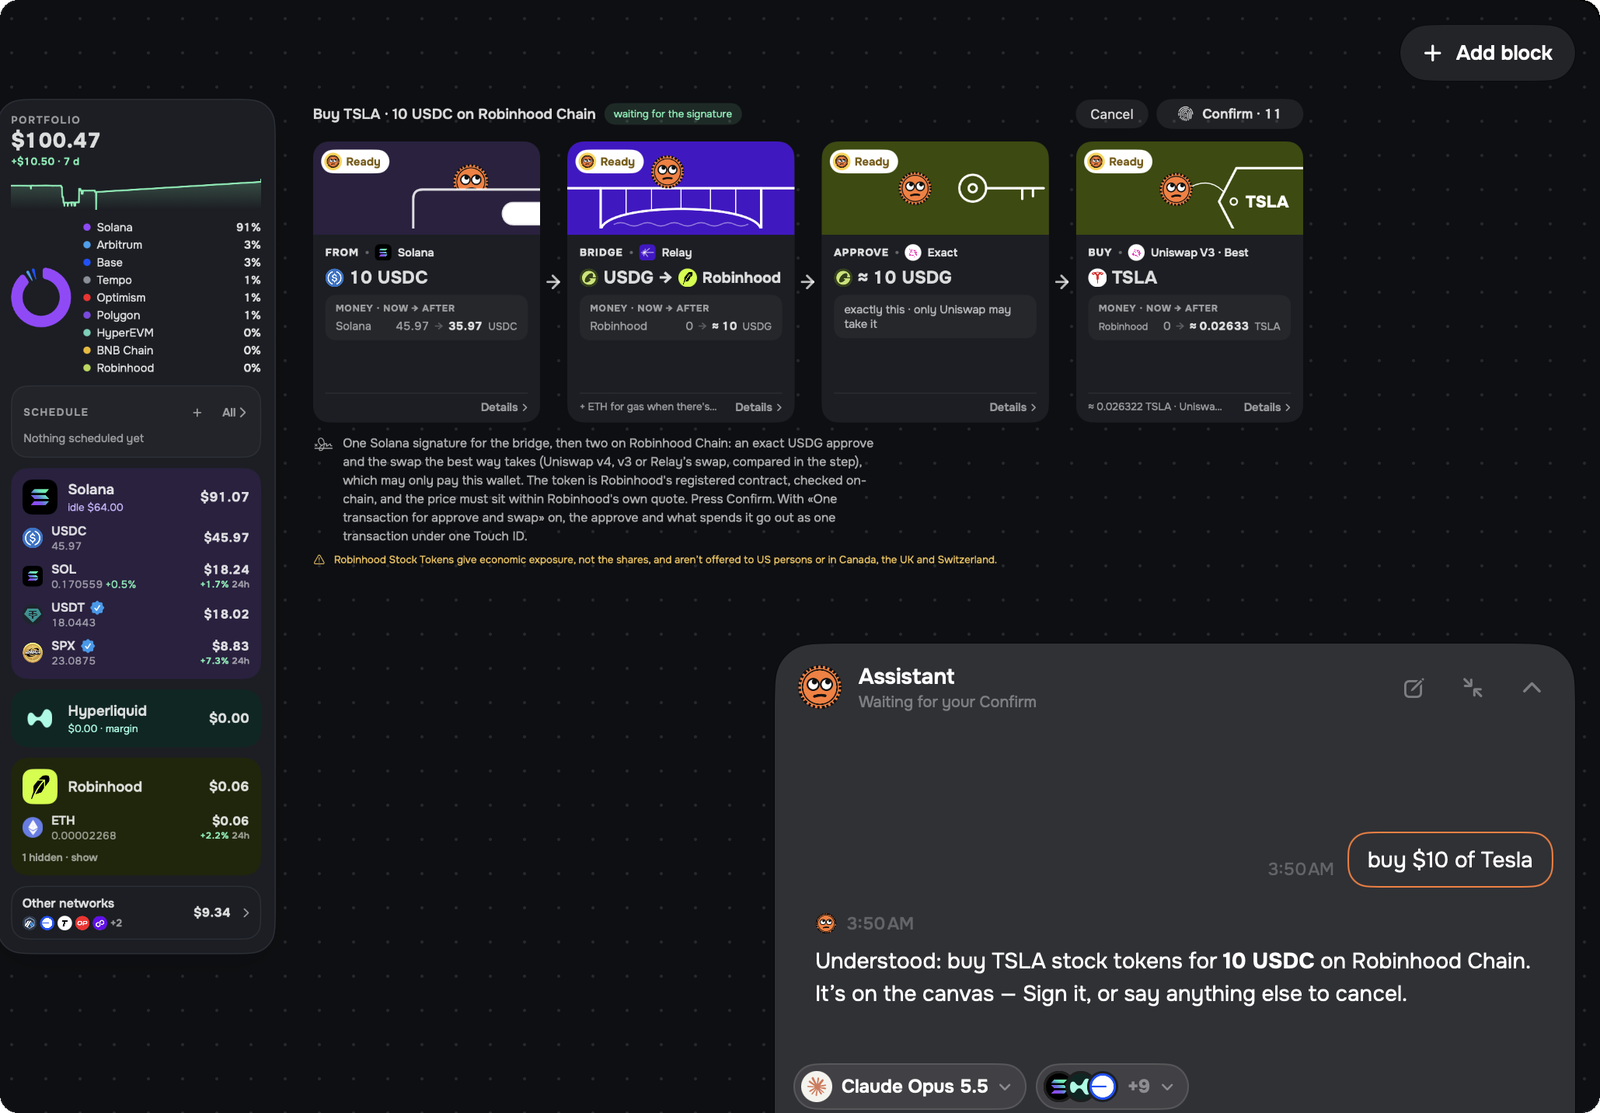
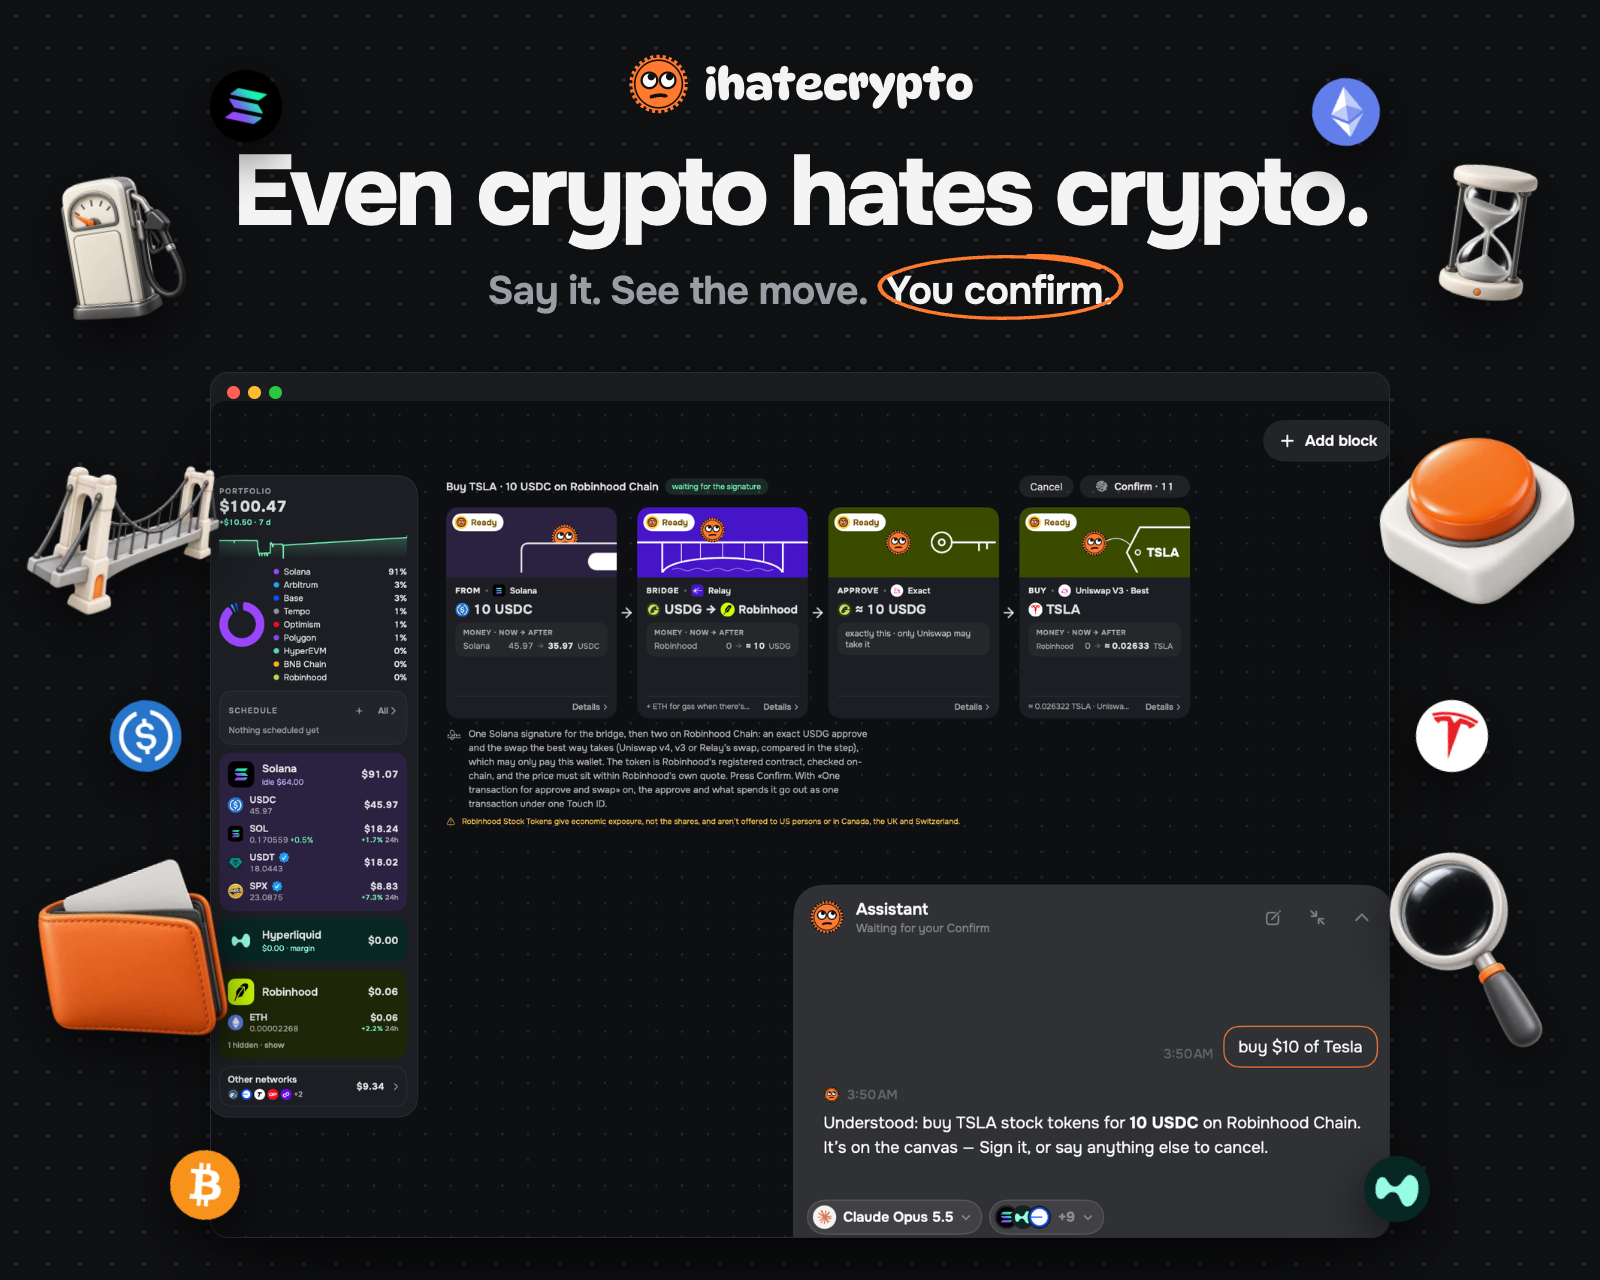
README: the top picture in the manner of the site's link previews (the slogan, «Say it. See the move. You confirm.» with the last part circled, the app window and the manifesto's 3D things and coins around it), light and dark, as the owner asked («сделай вот тут более красивую картинку как для соц с
images/hero.html draws it from the canvas screenshots, now app-light.png and app-dark.png.

diff --git a/images/hero.html b/images/hero.html
@@ -1,0 +1,53 @@
+<!doctype html>
+<!-- The README's top picture in the manner of the site's link previews: the slogan, the app window (app-<theme>.png, a
+     screenshot of the canvas) and the manifesto's 3D things and coins around it. hero-light.png and hero-dark.png, 1600x1280:
+       python3 -m http.server 8765   (from the repo root)
+       screenshot http://127.0.0.1:8765/images/hero.html and ?theme=dark at 1600x1280 -->
+<html><head><meta charset="utf-8">
+<style>
+  @font-face { font-family: 'DynaPuff'; font-weight: 600; src: url(../App/Tools/site/fonts/dynapuff-latin.woff2) format('woff2'); }
+  @font-face { font-family: 'Onest'; font-weight: 400 800; src: url(../App/Tools/site/fonts/onest-latin.woff2) format('woff2'); }
+  :root { --bg: #FAFAFB; --dot: #D9DCE2; --ink: #111111; --line: #E1E4EC; --bar: #F4F5F7; --muted: #5F636B; --shadow: rgba(17,17,17,.20); }
+  .dark { --bg: #0F1012; --dot: #26282D; --ink: #F4F4F5; --line: #2A2C31; --bar: #1B1C1F; --muted: #9A9DA4; --shadow: rgba(0,0,0,.6); }
+  * { box-sizing: border-box; margin: 0; }
+  body { position: relative; width: 1600px; height: 1280px; overflow: hidden; color: var(--ink); font-family: Onest, sans-serif; -webkit-font-smoothing: antialiased;
+         background: var(--bg) radial-gradient(var(--dot) 1.8px, transparent 2.2px) 0 0 / 32px 32px; }
+  .lock { position: absolute; left: 50%; top: 52px; translate: -50% 0; display: flex; align-items: center; gap: 14px; }
+  .lock svg { width: 64px; height: 64px; }
+  .lock b { font: 600 44px/1 DynaPuff, Onest, sans-serif; letter-spacing: -.3px; }
+  h1 { position: absolute; left: 0; right: 0; top: 142px; text-align: center; font: 800 100px/1 Onest, sans-serif; letter-spacing: -.045em; }
+  p { position: absolute; left: 0; right: 0; top: 268px; text-align: center; font: 700 40px/1.15 Onest, sans-serif; letter-spacing: -.025em; color: var(--muted); }
+  .ring { position: relative; margin-left: .2em; white-space: nowrap; color: var(--ink); }
+  .ring svg { position: absolute; left: -.45em; top: -.42em; width: calc(100% + .9em); height: 1.9em; overflow: visible; }
+  .ring path { fill: none; stroke: #FF7A2F; stroke-width: 3.5; stroke-linecap: round; }
+  .win { position: absolute; left: 210px; top: 372px; width: 1180px; border-radius: 18px; overflow: hidden; border: 1px solid var(--line);
+         background: var(--bar); box-shadow: 0 50px 100px -20px var(--shadow), 0 20px 40px -20px var(--shadow); }
+  .bar { height: 40px; display: flex; align-items: center; gap: 8px; padding: 0 16px; border-bottom: 1px solid var(--line); }
+  .bar i { width: 13px; height: 13px; border-radius: 50%; }
+  .win img { display: block; width: calc(100% + 24px); margin: -12px 0 0; }
+  .obj { position: absolute; display: block; filter: drop-shadow(0 18px 24px var(--shadow)); }
+  .coin { border-radius: 50%; }
+</style></head><body>
+<svg width="0" height="0" style="position:absolute"><defs><symbol id="f-wait" viewBox="0 0 140 140"><circle cx="70" cy="70" r="64" fill="#FF7A2F"/><circle cx="70" cy="70" r="62" fill="none" stroke="#111111" stroke-width="9" stroke-dasharray="7 7"/><circle cx="70" cy="70" r="52" fill="none" stroke="#111111" stroke-width="3.5"/><circle cx="50" cy="62" r="17" fill="#FFFFFF" stroke="#111111" stroke-width="5"/><circle cx="90" cy="62" r="17" fill="#FFFFFF" stroke="#111111" stroke-width="5"/><circle cx="54.08" cy="53.98" r="8" fill="#111111"/><circle cx="94.08" cy="53.98" r="8" fill="#111111"/><path d="M54 98 Q70 92 86 96" fill="none" stroke="#111111" stroke-width="8" stroke-linecap="round" stroke-linejoin="round"/></symbol></defs></svg>
+<div class="lock"><svg viewBox="0 0 140 140"><use href="#f-wait"/></svg><b>ihatecrypto</b></div>
+<h1>Even crypto hates crypto.</h1>
+<p>Say it. See the move. <span class="ring">You confirm.<svg viewBox="0 0 200 80" preserveAspectRatio="none"><path d="M176 21C138 3 48 5 15 30C-5 47 33 74 102 74C168 74 204 53 189 29C179 15 151 7 122 8"/></svg></span></p>
+<div class="win"><div class="bar"><i style="background:#FF5F57"></i><i style="background:#FEBC2E"></i><i style="background:#28C840"></i></div><img id="app" alt=""></div>
+<img class="obj coin" src="../App/Tools/site/mf/sol.png" style="left:210px;top:70px;width:72px;rotate:12deg">
+<img class="obj coin" src="../App/Tools/site/mf/eth.svg" style="right:220px;top:78px;width:68px;rotate:-8deg">
+<img class="obj" src="../App/Tools/site/mf/gaspump.webp" style="left:56px;top:170px;width:130px;rotate:-10deg">
+<img class="obj" src="../App/Tools/site/mf/hourglass.webp" style="right:64px;top:160px;width:96px;rotate:8deg">
+<img class="obj" src="../App/Tools/site/mf/bridge.webp" style="left:24px;top:450px;width:200px;rotate:8deg">
+<img class="obj coin" src="../App/Tools/site/mf/usdc.png" style="left:110px;top:700px;width:72px;rotate:-6deg">
+<img class="obj" src="../App/Tools/site/mf/wallet.webp" style="left:36px;top:860px;width:190px;rotate:-10deg">
+<img class="obj" src="../App/Tools/site/mf/button.webp" style="right:18px;top:430px;width:210px;rotate:-8deg">
+<img class="obj coin" src="../App/Tools/site/mf/tsla.png" style="right:112px;top:700px;width:72px;rotate:10deg">
+<img class="obj" src="../App/Tools/site/mf/magnifier.webp" style="right:34px;top:850px;width:190px;rotate:12deg">
+<img class="obj coin" src="../App/Tools/site/mf/btc.svg" style="left:170px;top:1150px;width:70px;rotate:-10deg">
+<img class="obj" src="../App/Tools/site/mf/hype.svg" style="right:170px;top:1156px;width:66px;rotate:8deg">
+<script>
+const dark = new URLSearchParams(location.search).get('theme') === 'dark';
+document.documentElement.classList.toggle('dark', dark);
+document.getElementById('app').src = dark ? 'app-dark.png' : 'app-light.png';
+</script>
+</body></html>

diff --git a/README.md b/README.md
@@ -1,7 +1,7 @@
 <p align="center">
   <picture>
     <source media="(prefers-color-scheme: dark)" srcset="images/hero-dark.png">
-    <img src="images/hero-light.png" width="800" alt="ihatecrypto: the portfolio on the left, «buy $10 of Tesla» laid out as cards on the canvas (10 USDC from Solana, bridged with Relay, approved and swapped for TSLA on Robinhood Chain) and the chat below">
+    <img src="images/hero-light.png" width="800" alt="ihatecrypto. Even crypto hates crypto. Say it. See the move. You confirm. Below, the app window: the portfolio on the left, «buy $10 of Tesla» laid out as cards on the canvas (10 USDC from Solana, bridged with Relay, approved and swapped for TSLA on Robinhood Chain) and the chat below">
   </picture>
 </p>
 
